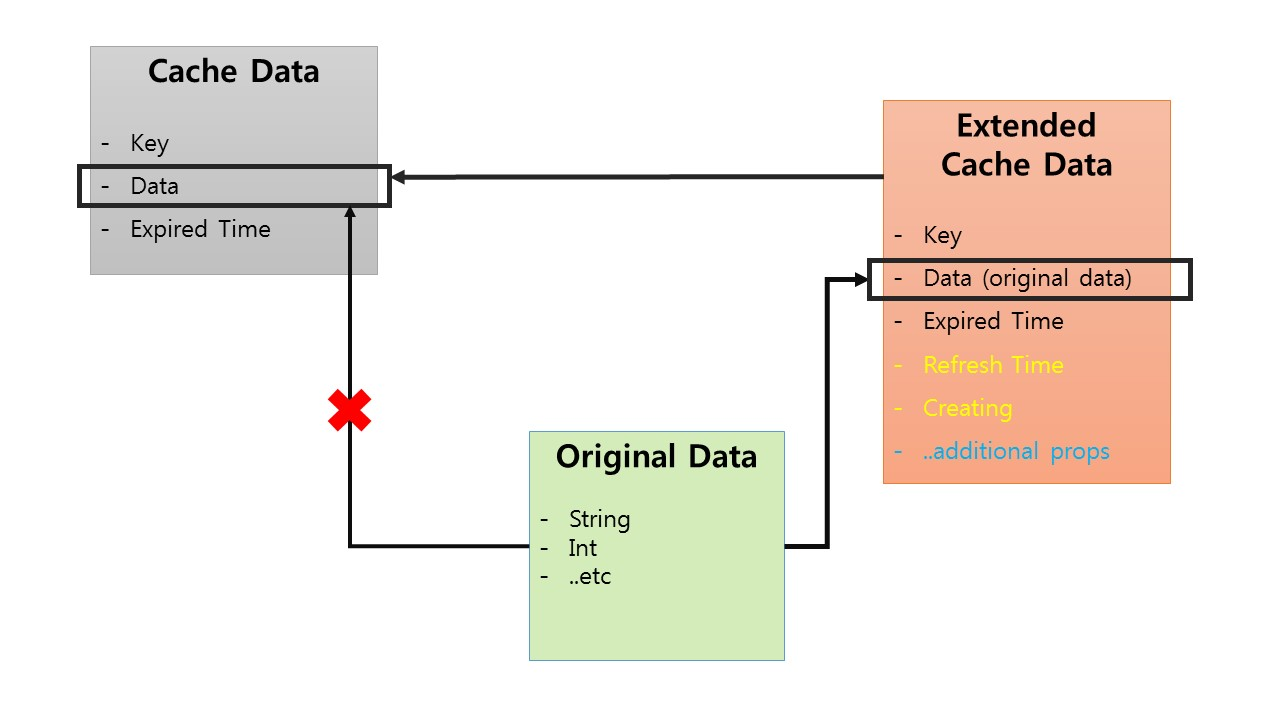
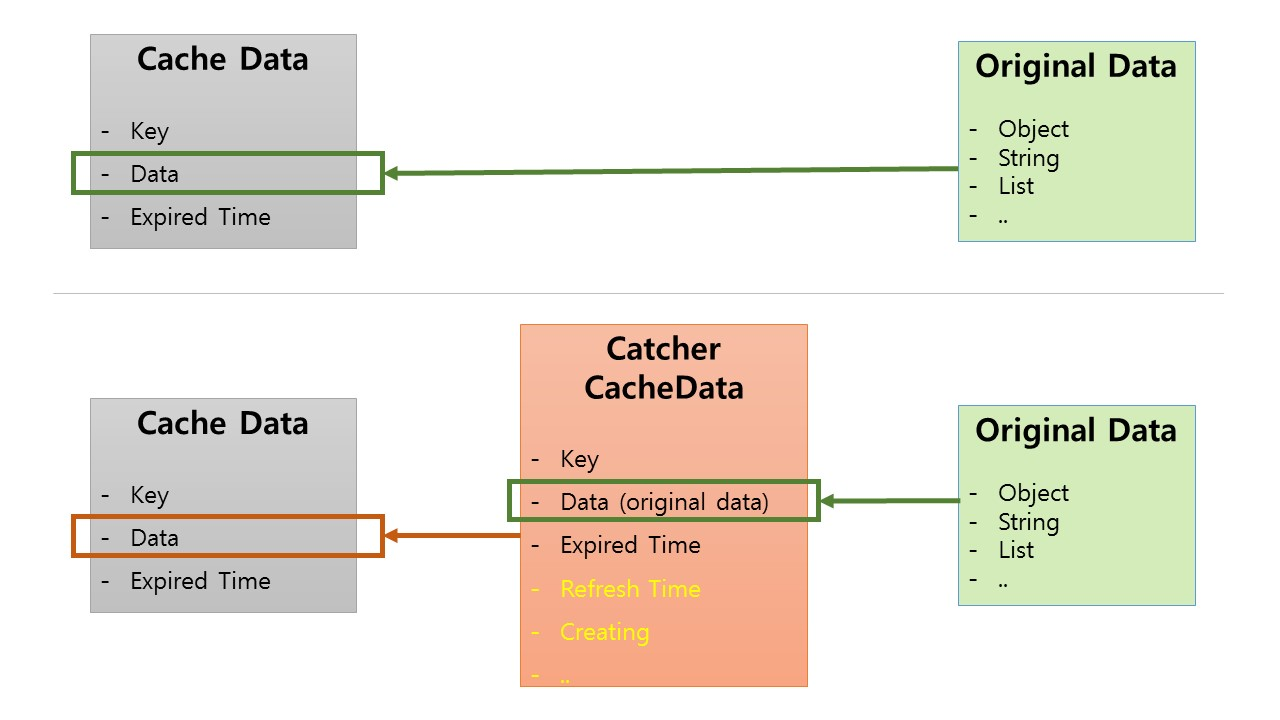
edit

diff --git a/_posts/2020-03-05-catcher.md b/_posts/2020-03-05-catcher.md
@@ -16,9 +16,16 @@ authore: ybkim
 
 1. 기존의 캐시사용 방식
 2. Catcher 소개
+<<<<<<< Updated upstream
 3. Catcher 사용법
 4. 끝
+=======
+3. 성능 테스트
+4. 코드예제
+5. 결론
+>>>>>>> Stashed changes
 
+<br>
 <br>
 
 ### 기존의 캐시사용 방식
@@ -35,10 +42,13 @@ authore: ybkim
 위의 원인으로 만료시간마다 처리 리소스가 증가하게 됨.
 
 <br>
+<br>
 
 ### Catcher 소개
 
-Catcher는 코드와 캐시요청 사이에서 캐시의 갱신과 다수요청에 대한 제어를 처리.
+현재 운영중인 벅스뮤직 웹서비스(https://music.bugs.co.kr)에 적용된 캐시운용방식의 일부분을 별도의 라이브러리로 재구성하여 이름을 붙인것이 Catcher.
+
+Catcher는 코드와 캐시요청 사이에서 캐시의 갱신과 다수요청에 대한 제어를 처리.  
 <span class="post-img">
 ![Position of Catcher](/assets/images/post/catcher/Position of Catcher.JPG)
 <span class="caption">Catcher</span>
@@ -89,8 +99,9 @@ Multi Request 비교
 </span>  
 
 <br>
+<br>
 
-웹 응답시간 테스트
+### 성능 테스트  
 
 #### **jmeter web response test**  
 threads : 10000  
@@ -121,9 +132,21 @@ cache creating occurred :
 </span> 
 
 <br>
+<br>
 
 ### Catcher 사용법
 
+<<<<<<< Updated upstream
+=======
+```
+<dependency>
+    <groupId>com.codebal.cache</groupId>
+    <artifactId>catcher</artifactId>
+    <version>0.1.9</version>
+</dependency>
+```
+
+>>>>>>> Stashed changes
 ```java
 /**
 Catcher catcher = new Catcher(Function cacheResourceSetter, Function cacheResourceGetter)
@@ -284,3 +307,28 @@ catcher.getSet('testKey', ()->{
 
 
 ```
+
+<br>
+<br>
+
+### Catcher 결론
+
+#### 장점
+ - 캐시 생성/만료에 의해 발생할 수 있는 지연시간, 리소스 과부하를 줄일 수 있음
+
+#### 단점
+ - 기존의 캐시저장 데이터보다 양이 다소 커질 수 있음
+
+#### 주의사항
+ - 본 스래드와는 별개의 다른 스래드를 생성시켜 캐시를 갱신하는 비동기 방식이므로, 본 스래드에서만 유효한 리소스를 사용해서는 안됨 (Web의 Request 등.)
+
+#### 가능성
+ - 캐시 운용중에 발생할 수 있는 예외상황에 대한 대응
+ - 상태 모니터링
+ - 다른 캐시 솔루션과 연동
+
+
+<br>
+<br>
+<br>
+<br>
